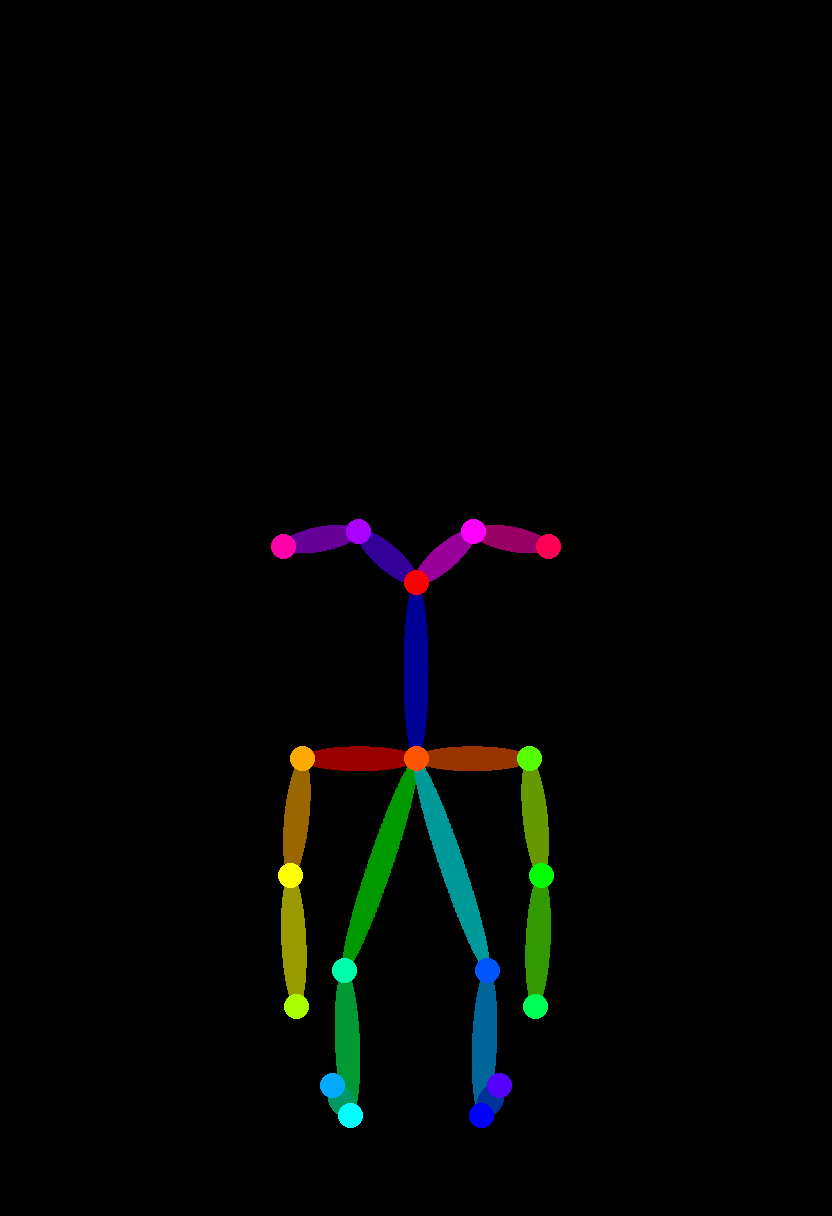
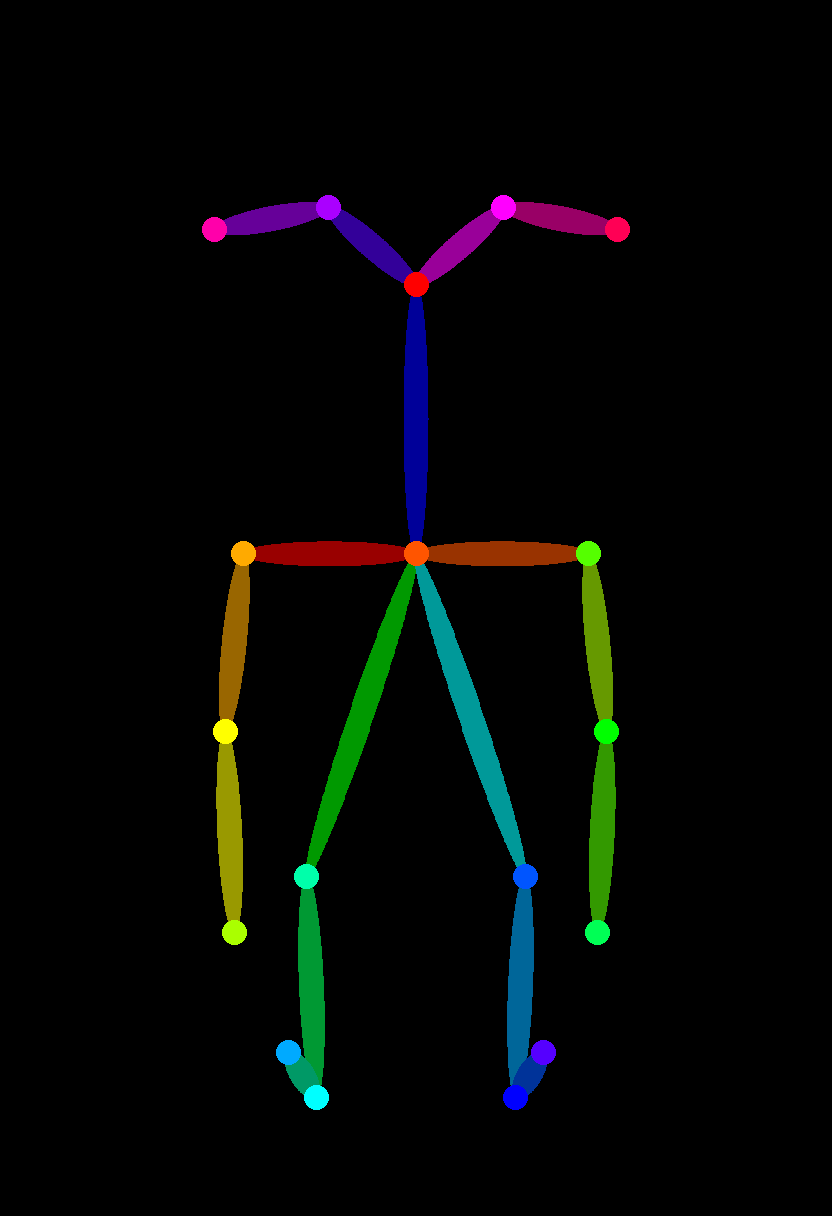
the ghost head was a hole in the composition, and one rung proved it in 35 seconds
Round three, three rungs, one variable each off r2a:
  r3a  pose sit -> stand (empty top 55% -> 26%)   NO GHOST. Clean single figure,
       right ears, right costume, muted palette, world present.
  r3b  reference sq22 -> sq45, encoder coverage 6.7% -> 28.3%   GHOST STILL THERE.
  r3c  ip_scale 0.7 -> 0.5                                      GHOST STILL THERE.

So it is not the reference and not the adapter strength. A large empty region in
a frame whose prompt says `goblin` is a region the model fills with a goblin --
the same lesson as k3's horns one level up, where a skull cut off at a canvas
edge grew the completion as horns.

STATURE_FOR holds a per-pose stature_frac solved so the crown lands at ~18% of
frame height, and --selftest asserts the hole is under 28% for every pose and
that no pose runs off the frame. Before: sit 55%, crouch 46%, hunch 34%. After:
17-18% everywhere. All eight skeletons rebuilt and re-pinned.

r3b is kept and is not wasted: it is the measurement that stops the next lane
re-deriving the reference, which is the expensive wrong answer here.

Changed region(s): [[0.25, 0.1562, 0.75, 0.9375]]

diff --git a/pipeline/jerry_canon_0821.py b/pipeline/jerry_canon_0821.py
@@ -300,8 +300,9 @@ MASK_MARGIN_PX = 20
 
 def head_box(pose="stand", head_frac=HEAD_FRAC):
     """The head-and-ears box in render pixels, for one pose. 'x0,y0,x1,y1'."""
-    kp, _ = skel.figure(head_frac, pose=pose)
-    stature = skel.STATURE * RENDER_H
+    kp, _ = skel.figure(head_frac, pose=pose,
+                        stature_frac=STATURE_FOR[pose])
+    stature = STATURE_FOR[pose] * RENDER_H
     head_h = head_frac * stature
     skull_w = skel.HEAD_RATIO * head_h
     cx = (kp["Rear"][0] + kp["Lear"][0]) / 2.0
@@ -331,6 +332,38 @@ def skeleton_stem(pose):
     return "jerry-canon-h37%s-0821" % ("" if pose == "stand" else pose)
 
 
+# ── THE FRAME-FILL CORRECTION, AND IT IS THE ROUND-THREE FINDING. ────────────
+# Every round-one and round-two frame drew a SECOND GOBLIN HEAD floating above
+# the figure. Three negative tags aimed at it (`multiple heads`, `disembodied
+# head`, `floating head`) did nothing, which is Ban et al. (ECCV 2024,
+# arXiv:2406.02965) exactly as canon.yaml already cites it -- a negative acts
+# only after the positive has drawn the thing.
+#
+# THE CAUSE IS GEOMETRY AND IT WAS FOUND BY MEASURING, THEN BY A ONE-VARIABLE
+# RUNG. At the canon head_frac of 0.370 the poses leave very different holes
+# above the figure:
+#
+#     sit 55% empty    crouch 46%    hunch 34%    stand/stride 26%
+#
+# and the ghost sat in the hole. Round three swapped ONE thing each:
+#     r3a  pose sit -> stand (55% hole -> 26%)   NO GHOST. Clean single figure.
+#     r3b  reference sq22 -> sq45 (encoder coverage 6.7% -> 28.3%, i.e. a FACE
+#          instead of a head lying in a field, which was the other hypothesis
+#          and looked like a picture of the defect)   GHOST STILL THERE.
+#     r3c  ip_scale 0.7 -> 0.5                        GHOST STILL THERE.
+#
+# So it is not the reference and it is not the adapter strength: a large empty
+# region in a frame whose prompt says `goblin` is a region the model fills with
+# a goblin. STATURE_FOR holds each pose's stature_frac at the value that puts
+# the crown at ~18% of frame height, solved per pose and asserted below. This is
+# the same lesson as k3's horns one level up -- a subject that does not reach
+# the edge of its region is a subject the model completes past it.
+STATURE_FOR = {
+    "sit": 1.58, "crouch": 1.28, "hunch": 1.02, "kneel": 1.22,
+    "stand": 0.90, "stride": 0.90, "reach": 0.90, "point": 0.90,
+}
+MAX_EMPTY_TOP = 0.28      # asserted for every pose in --selftest
+
 # The poses the ep2 wave needs, and the sha each skeleton must have. Built by
 # `--build-skeletons`, asserted by `--selftest`, pinned by every spec.
 SKELETONS = {
@@ -345,21 +378,21 @@ SKELETONS = {
 }
 SKELETON_SHA = {
     "jerry-canon-h37-0821":
[2 lines of base64/hex data omitted]
     "jerry-canon-h37stride-0821":
[2 lines of base64/hex data omitted]
     "jerry-canon-h37crouch-0821":
[2 lines of base64/hex data omitted]
     "jerry-canon-h37hunch-0821":
[2 lines of base64/hex data omitted]
     "jerry-canon-h37kneel-0821":
[2 lines of base64/hex data omitted]
     "jerry-canon-h37reach-0821":
[2 lines of base64/hex data omitted]
     "jerry-canon-h37point-0821":
[2 lines of base64/hex data omitted]
     "jerry-canon-h37sit-0821":
[2 lines of base64/hex data omitted]
 }
 
 
@@ -489,12 +522,24 @@ def ip_adapter_block(pose):
     }
 
 
+def _build_one(pose):
+    """One skeleton at the canon head ratio and THIS pose's frame-fill stature."""
+    from PIL import Image
+    kp, meta = skel.figure(HEAD_FRAC, pose=pose,
+                           stature_frac=STATURE_FOR[pose])
+    img = Image.new("RGB", (RENDER_W, RENDER_H), (0, 0, 0))
+    meta["ratio"] = skel.ratio_for(RENDER_W, RENDER_H)
+    meta["stature_frac"] = STATURE_FOR[pose]
+    skel.draw_bodypose(img, kp, meta["ratio"])
+    return img, meta
+
+
 def build_skeletons():
     import hashlib
     out = os.path.join(REPO, ASSET_DIR)
     os.makedirs(out, exist_ok=True)
     for pose, stem in sorted(SKELETONS.items()):
-        img, meta = skel.build(HEAD_FRAC, pose=pose)
+        img, meta = _build_one(pose)
         p = os.path.join(out, stem + ".png")
         img.save(p)
         sha = hashlib.sha256(open(p, "rb").read()).hexdigest()
@@ -540,6 +585,19 @@ def selftest():
         b = [int(v) for v in head_box(pose).split(",")]
         want(b[2] - b[0] >= 400, "%s mask is only %d px wide -- the ears are "
                                  "outside it" % (pose, b[2] - b[0]))
+    # THE HOLE THAT DREW THE GHOST. Asserted per pose, because the fix is a
+    # number per pose and a number is exactly what silently reverts.
+    for pose in SKELETONS:
+        kp, _ = skel.figure(HEAD_FRAC, pose=pose,
+                            stature_frac=STATURE_FOR[pose])
+        ys = [v[1] for v in kp.values()]
+        empty = min(ys) / float(RENDER_H)
+        want(empty <= MAX_EMPTY_TOP,
+             "pose %r leaves %.0f%% of the frame empty above the figure -- over "
+             "the %.0f%% bar, and that hole is where the ghost head grew"
+             % (pose, empty * 100, MAX_EMPTY_TOP * 100))
+        want(max(ys) <= RENDER_H - 10 and min(v[0] for v in kp.values()) >= 10,
+             "pose %r runs off the frame" % pose)
     # Emotion is one mouth tag and one brow/mood tag, never identity.
     for k, v in EMOTION.items():
         want("goblin" not in v and "ears" not in v,
